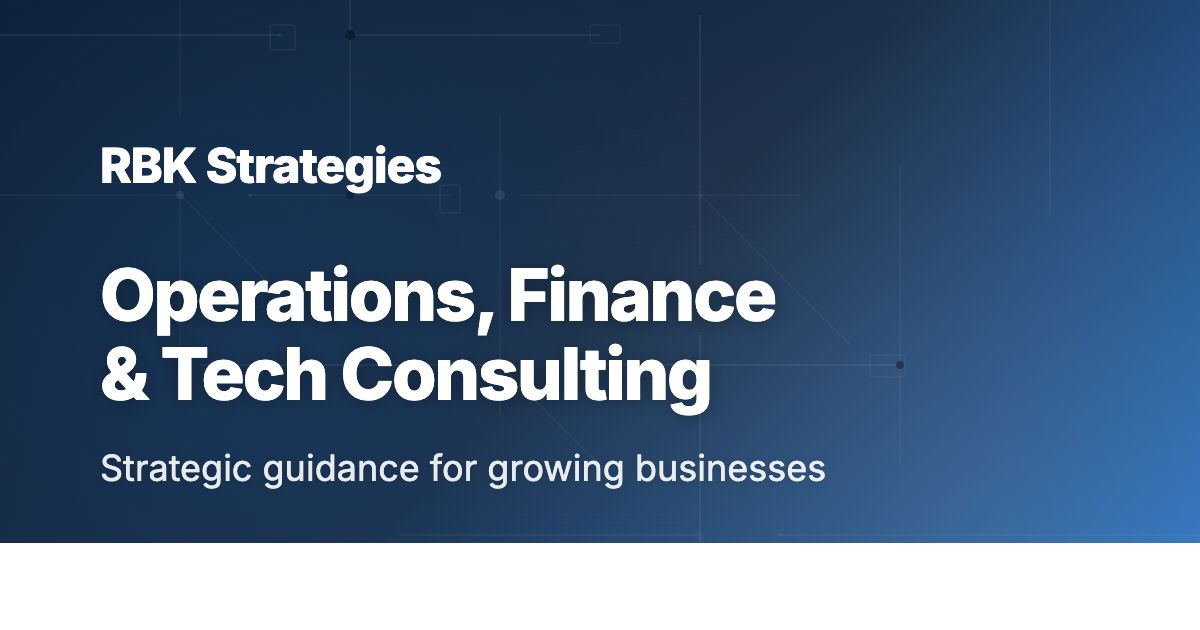
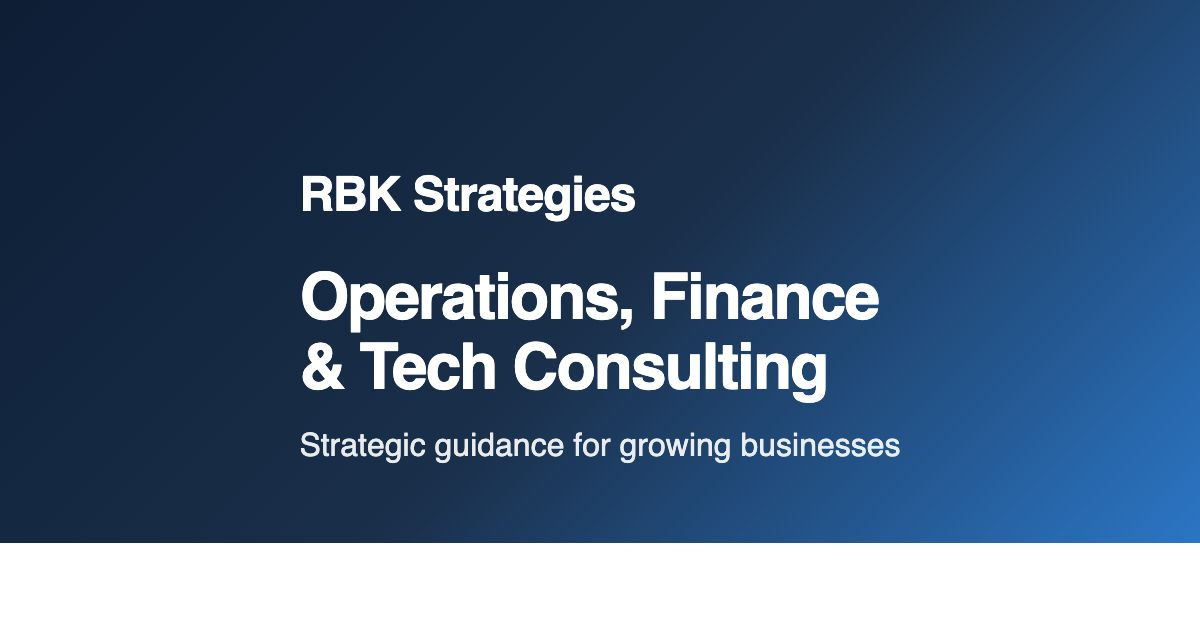
fix: use simple OG image without extra spacing
- Replaced complex template with simpler centered design
- Ensures content fills entire 1200x630 frame
- No extra padding or spacing issues

🤖 Generated with [Claude Code](https://claude.com/claude-code)

diff --git a/og-simple.html b/og-simple.html
@@ -1,0 +1,30 @@
+<!DOCTYPE html>
+<html>
+<head>
+<meta charset="UTF-8">
+<link href="https://fonts.googleapis.com/css2?family=Inter:wght@400;600;700;800&display=swap" rel="stylesheet">
+<style>
+* { margin: 0; padding: 0; box-sizing: border-box; }
+html, body { width: 1200px; height: 630px; margin: 0; padding: 0; overflow: hidden; }
+body {
+  background: linear-gradient(135deg, #0D1E35 0%, #1A2F4A 50%, #2D7DD2 100%);
+  font-family: 'Inter', sans-serif;
+  display: flex;
+  align-items: center;
+  justify-content: center;
+  padding: 80px 100px;
+}
+.card { text-align: left; }
+h1 { font-size: 48px; font-weight: 800; color: white; margin-bottom: 40px; letter-spacing: -0.02em; }
+h2 { font-size: 64px; font-weight: 800; color: white; line-height: 1.1; margin-bottom: 24px; letter-spacing: -0.03em; }
+p { font-size: 32px; font-weight: 500; color: rgba(255,255,255,0.9); }
+</style>
+</head>
+<body>
+<div class="card">
+<h1>RBK Strategies</h1>
+<h2>Operations, Finance<br>& Tech Consulting</h2>
+<p>Strategic guidance for growing businesses</p>
+</div>
+</body>
+</html>
